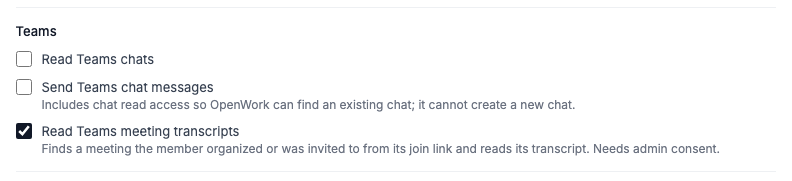
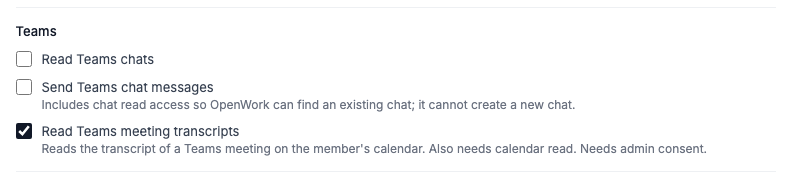
refactor(microsoft-365): keep only the meeting id from the join link lookup
Drops the unused meeting fields, lets transcript content follow a
redirect, restores the flag owner, and retakes the permission screenshot
with the new description.

Changed region(s): [[0.0606, 0.8011, 0.9091, 0.8564]]

diff --git a/ee/apps/den-api/src/capability-sources/microsoft-graph.ts b/ee/apps/den-api/src/capability-sources/microsoft-graph.ts
@@ -157,15 +157,6 @@ export type Microsoft365TeamsMessage = {
   webUrl: string
 }
 
-export type Microsoft365TeamsMeeting = {
-  id: string
-  subject: string
-  startDateTime: string
-  endDateTime: string
-  joinWebUrl: string
-  organizer: Microsoft365EmailAddress | null
-}
-
 export type Microsoft365TeamsTranscript = {
   id: string
   meetingId: string
@@ -571,30 +562,9 @@ export function extractMicrosoftTeamsMessages(json: unknown): Microsoft365TeamsM
     .filter((message) => Boolean(message.id))
 }
 
-function readMeetingOrganizer(meeting: Record<string, unknown>): Microsoft365EmailAddress | null {
-  const participants = readRecord(meeting, "participants")
-  const organizer = participants ? readRecord(participants, "organizer") : null
-  if (!organizer) return null
-  const identity = readRecord(organizer, "identity")
-  const user = identity ? readRecord(identity, "user") : null
-  const address = readString(organizer, "upn")
-  const name = user ? readString(user, "displayName") : ""
-  return address || name ? { name, address } : null
-}
-
-export function extractMicrosoftTeamsMeetings(json: unknown): Microsoft365TeamsMeeting[] {
+export function extractMicrosoftTeamsMeetingIds(json: unknown): string[] {
   const root = isRecord(json) ? json : {}
-  return readArray(root, "value")
-    .filter(isRecord)
-    .map((meeting) => ({
-      id: readString(meeting, "id"),
-      subject: readString(meeting, "subject"),
-      startDateTime: readString(meeting, "startDateTime"),
-      endDateTime: readString(meeting, "endDateTime"),
-      joinWebUrl: readString(meeting, "joinWebUrl"),
-      organizer: readMeetingOrganizer(meeting),
-    }))
-    .filter((meeting) => Boolean(meeting.id))
+  return readArray(root, "value").filter(isRecord).map((meeting) => readString(meeting, "id")).filter(Boolean)
 }
 
 export function extractMicrosoftTeamsTranscripts(json: unknown): Microsoft365TeamsTranscript[] {
@@ -1218,10 +1188,10 @@ export class MicrosoftGraphClient {
     ))
   }
 
-  async findTeamsMeetingByJoinUrl(joinUrl: string): Promise<Microsoft365TeamsMeeting | null> {
+  async findTeamsMeetingIdByJoinUrl(joinUrl: string): Promise<string | null> {
     const url = this.url("me/onlineMeetings")
     url.search = `$filter=${encodeURIComponent(`JoinWebUrl eq '${escapeODataString(joinUrl)}'`)}`
-    return extractMicrosoftTeamsMeetings(await this.requestJson("Microsoft 365 Teams meeting lookup", url, { redirect: "error" }))[0] ?? null
+    return extractMicrosoftTeamsMeetingIds(await this.requestJson("Microsoft 365 Teams meeting lookup", url, { redirect: "error" }))[0] ?? null
   }
 
   async listTeamsMeetingTranscripts(meetingId: string): Promise<Microsoft365TeamsTranscript[]> {
@@ -1251,11 +1221,11 @@ export class MicrosoftGraphClient {
     let speakerAttribution = true
     let response: Response
     try {
-      response = await this.request(operation, url, { redirect: "error", headers: { accept: TRANSCRIPT_VTT } })
+      response = await this.request(operation, url, { headers: { accept: TRANSCRIPT_VTT } })
     } catch (error) {
       if (!graphForbids(error, "SpeakerAttributionNotAllowed")) throw error
       speakerAttribution = false
-      response = await this.request(operation, url, { redirect: "error", headers: { accept: TRANSCRIPT_UNATTRIBUTED_TEXT } })
+      response = await this.request(operation, url, { headers: { accept: TRANSCRIPT_UNATTRIBUTED_TEXT } })
     }
     const format = speakerAttribution ? "vtt" : "text"
     const downloaded = await readBytesWithByteLimit(response, this.maxDownloadBytes)

diff --git a/ee/apps/den-api/src/capability-sources/microsoft-event-transcript.ts b/ee/apps/den-api/src/capability-sources/microsoft-event-transcript.ts
@@ -46,14 +46,14 @@ export async function readMicrosoftEventTranscript(graph: MicrosoftGraphClient, 
   if (isOnlineMeeting === false || !joinUrl || (onlineMeetingProvider && onlineMeetingProvider !== "teamsForBusiness") || !isTeamsJoinUrl(joinUrl)) {
     return { ...result, status: "not_teams_meeting", retryable: false, message: "This calendar event is not an online Teams meeting." }
   }
-  const meeting = await graph.findTeamsMeetingByJoinUrl(joinUrl)
+  const meetingId = await graph.findTeamsMeetingIdByJoinUrl(joinUrl)
   const noTranscript = (reason: NoTranscriptReason): EventTranscriptResult => ({
     ...result, status: "no_transcript", reason,
     message: "No transcript is available to this member for this calendar event. This does not show whether the meeting was recorded.",
   })
-  if (!meeting) return noTranscript("meeting_not_found")
+  if (!meetingId) return noTranscript("meeting_not_found")
 
-  const matches = selectEventTranscripts(result.event, await graph.listTeamsMeetingTranscripts(meeting.id))
+  const matches = selectEventTranscripts(result.event, await graph.listTeamsMeetingTranscripts(meetingId))
   const { transcriptId } = input
   if (transcriptId === undefined && matches.length > 1) {
     const candidates = matches.map(({ id, createdDateTime, endDateTime }) => ({ id, createdDateTime, endDateTime }))
@@ -63,7 +63,7 @@ export async function readMicrosoftEventTranscript(graph: MicrosoftGraphClient, 
   if (transcriptId !== undefined && !selected) throw new InvalidEventTranscriptError()
   if (!selected) return noTranscript("no_transcript_for_event")
   const { offset: _offset, nextOffset, ...page } = await graph.getTeamsMeetingTranscriptContent({
-    meetingId: meeting.id, transcriptId: selected.id, offset: Number(input.pageToken ?? 0), maxCharacters: input.maxCharacters,
+    meetingId, transcriptId: selected.id, offset: Number(input.pageToken ?? 0), maxCharacters: input.maxCharacters,
   })
   const transcript = { id: selected.id, createdDateTime: selected.createdDateTime, endDateTime: selected.endDateTime, ...page, nextPageToken: nextOffset === null ? null : String(nextOffset) }
   return { ...result, status: "transcript", transcript }

diff --git a/ee/apps/den-api/test/microsoft-teams-meetings.test.ts b/ee/apps/den-api/test/microsoft-teams-meetings.test.ts
@@ -41,7 +41,7 @@ function fixture(options: Responses = {}) {
       const url = new URL(String(input))
       const headers = new Headers(init?.headers)
       assert.equal(url.origin, new URL(BASE).origin)
-      assert.equal(init?.redirect, "error")
+      assert.equal(init?.redirect, url.pathname.endsWith("/content") ? undefined : "error")
       assert.equal(headers.get("authorization"), `Bearer ${TOKEN}`)
       const path = url.pathname.replace(/^\/v1\.0/, "")
       const call = { url, path, headers }
@@ -74,7 +74,7 @@ test("event loading requests the transcript fields and UTC, normalizing bare tim
 
 test("meeting lookup passes the escaped link as one OData filter on the member's meetings", async () => {
   const { graph, calls } = fixture()
-  assert.equal((await graph.findTeamsMeetingByJoinUrl(JOIN))?.id, MEETING_ID)
+  assert.equal(await graph.findTeamsMeetingIdByJoinUrl(JOIN), MEETING_ID)
   assert.equal(calls.length, 1)
   assert.equal(calls[0]?.path, "/me/onlineMeetings")
   const params = calls[0]?.url.searchParams

diff --git a/packages/features/src/flags/teams-meeting-transcripts.ts b/packages/features/src/flags/teams-meeting-transcripts.ts
@@ -6,7 +6,7 @@ export default defineFeature({
   category: "connect",
   added: "2026-11-27",
   since: "2026-11",
-  author: "getopenwork",
+  author: "benjaminshafii",
   docs: "docs/features/teams-meeting-transcripts/README.md",
   deployments: everywhere,
   default: false,

diff --git a/docs/features/teams-meeting-transcripts/README.md b/docs/features/teams-meeting-transcripts/README.md
@@ -1,6 +1,6 @@
 # Read Teams meeting transcripts
 
-`teamsMeetingTranscripts` is off by default on cloud and self-hosted deployments.
+`teamsMeetingTranscripts` is off by default on cloud and self-hosted deployments. Owner: `benjaminshafii`.
 
 ## What changes
 
